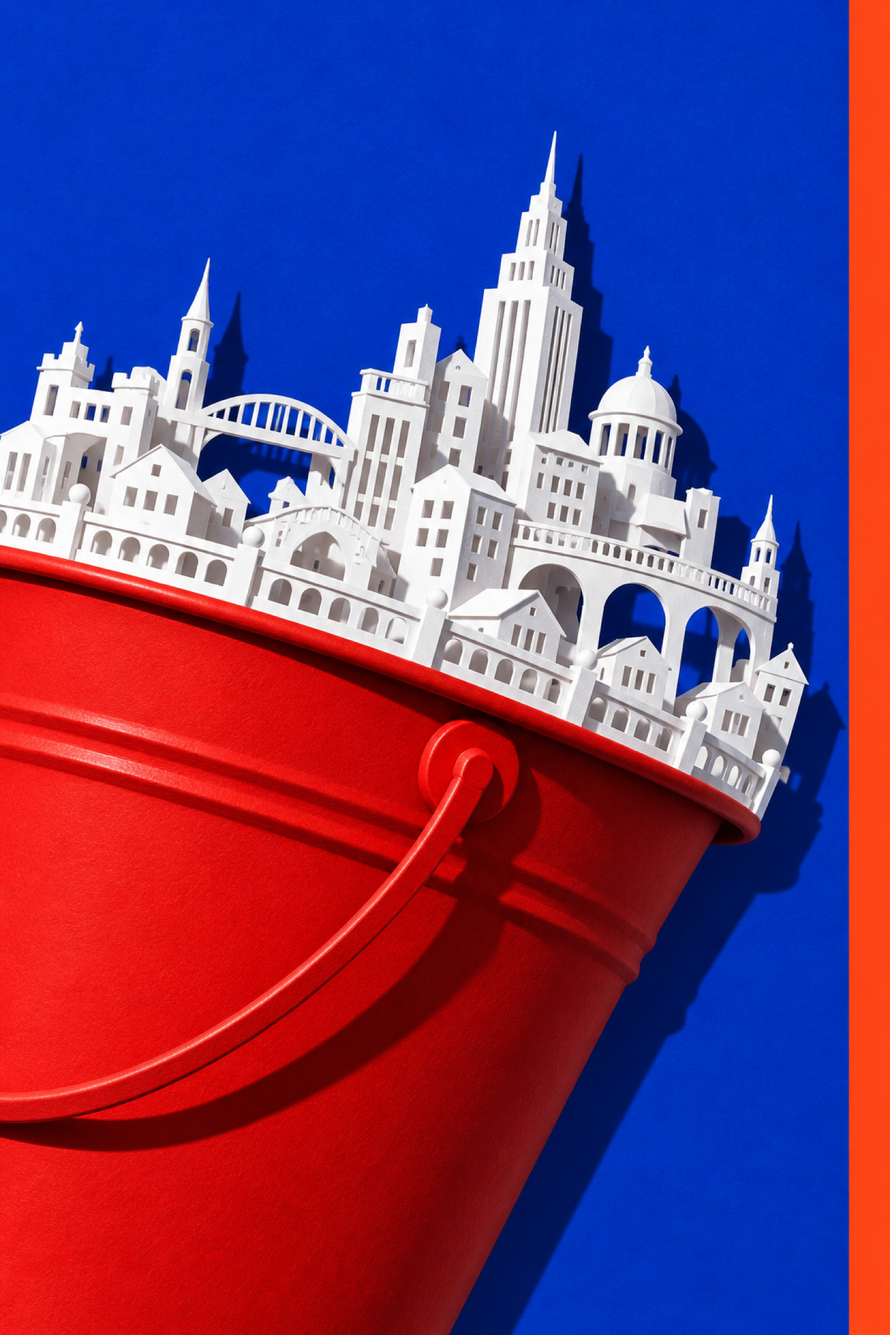
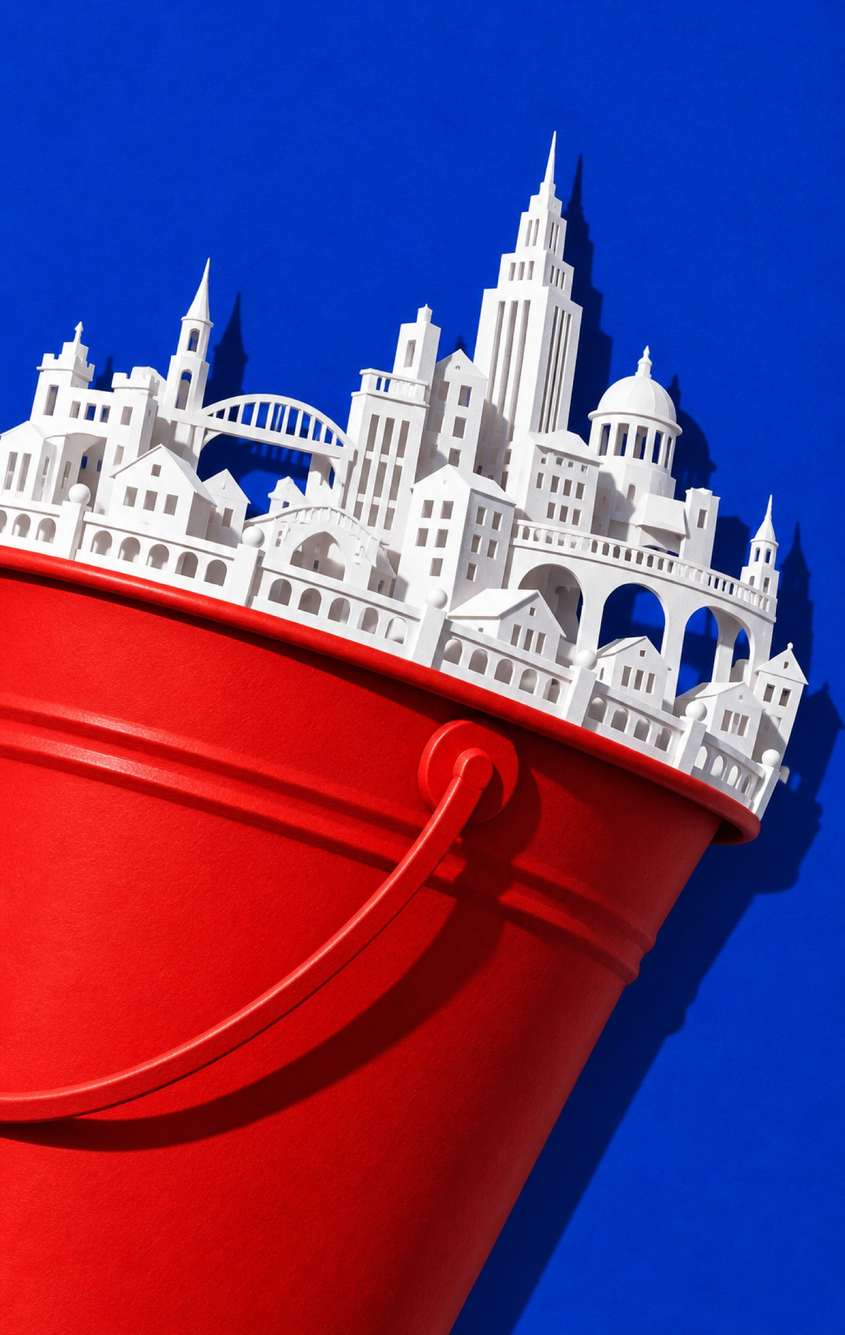
cover art: refuse a flat strip along any edge
The cover brief told the image model about the layout's spine band, so
021's cover came back with an orange bar painted down its right edge.
The brief now asks for full-bleed art with no border, band, or stripe and
names only the space to keep clear. mag art rejects a cover candidate
with a flat edge strip (pixel check) and render refuses such cover art.
021's pick is cropped to drop its strip.

Changed region(s): [[0.0, 0.0, 1.0, 1.0], [0.5833, 0.7444, 0.614, 0.7755]]

diff --git a/mag/src/cover/art.rs b/mag/src/cover/art.rs
@@ -68,6 +68,61 @@ pub fn art_zones(path: &Path, band_x: f64, page_height: f64) -> Result<(Zone, Zo
     ))
 }
 
+const SIDES: [&str; 4] = ["left", "right", "top", "bottom"];
+
+fn edge_line(image: &Rgb, side: usize, depth: u32) -> Vec<[i32; 3]> {
+    let (width, height) = (image.width, image.height);
+    let points: Vec<(u32, u32)> = match side {
+        0 => (0..height).map(|y| (depth, y)).collect(),
+        1 => (0..height).map(|y| (width - 1 - depth, y)).collect(),
+        2 => (0..width).map(|x| (x, depth)).collect(),
+        _ => (0..width).map(|x| (x, height - 1 - depth)).collect(),
+    };
+    points
+        .into_iter()
+        .map(|(x, y)| {
+            let at = (y as usize * width as usize + x as usize) * 3;
+            [0, 1, 2].map(|c| i32::from(image.data[at + c]))
+        })
+        .collect()
+}
+
+fn share(line: &[[i32; 3]], colour: [i32; 3], test: impl Fn(i32) -> bool) -> f64 {
+    let hits = line
+        .iter()
+        .filter(|p| test((0..3).map(|c| (p[c] - colour[c]).abs()).max().unwrap_or(0)))
+        .count();
+    hits as f64 / line.len().max(1) as f64
+}
+
+pub fn edge_band(image: &Rgb) -> Option<String> {
+    SIDES.iter().enumerate().find_map(|(side, name)| {
+        let span = if side < 2 { image.width } else { image.height };
+        let edge = edge_line(image, side, 0);
+        let count = i32::try_from(edge.len().max(1)).unwrap_or(i32::MAX);
+        let colour = [0, 1, 2].map(|c| edge.iter().map(|p| p[c]).sum::<i32>() / count);
+        let flat = (0..span / 4)
+            .take_while(|&depth| share(&edge_line(image, side, depth), colour, |d| d <= 28) >= 0.95)
+            .count();
+        let flat = u32::try_from(flat).unwrap_or(u32::MAX);
+        let inside = || edge_line(image, side, flat + 4);
+        (flat >= (span / 100).max(8)
+            && flat < span / 4
+            && share(&inside(), colour, |d| d > 60) >= 0.8)
+            .then(|| format!("a flat {flat}px strip along its {name} edge"))
+    })
+}
+
+pub fn refuse_edge_band(path: &Path) -> Result<()> {
+    match edge_band(&decode_rgb(path)?) {
+        Some(band) => anyhow::bail!(
+            "{} has {band}: generated art must not paint layout elements; crop it off or pick another candidate",
+            path.display()
+        ),
+        None => Ok(()),
+    }
+}
+
 pub fn luminance(rgb: [f64; 3]) -> f64 {
     let linear = |c: f64| match c <= 0.04045 {
         true => c / 12.92,
@@ -139,4 +194,41 @@ pub fn graded_art(path: &Path) -> Result<Vec<u8>> {
         ExtendedColorType::Rgb8,
     )?;
     Ok(jpeg)
+}
+
+#[cfg(test)]
+mod tests {
+    use super::*;
+
+    fn field(paint: impl Fn(u32, u32) -> [u8; 3]) -> Rgb {
+        let (width, height) = (300, 450);
+        let paint = &paint;
+        let data = (0..height)
+            .flat_map(|y| (0..width).flat_map(move |x| paint(x, y)))
+            .collect();
+        Rgb {
+            width,
+            height,
+            data,
+        }
+    }
+
+    #[test]
+    fn edge_band_finds_a_painted_strip_and_spares_a_flat_ground() {
+        let blue = [20, 40, 200];
+        let striped = field(|x, _| if x >= 285 { [250, 80, 40] } else { blue });
+        assert_eq!(
+            edge_band(&striped).as_deref(),
+            Some("a flat 15px strip along its right edge")
+        );
+        assert_eq!(edge_band(&field(|_, _| blue)), None);
+        let subject = field(|x, y| {
+            if x >= 285 && y > 300 {
+                [220, 30, 30]
+            } else {
+                blue
+            }
+        });
+        assert_eq!(edge_band(&subject), None);
+    }
 }

diff --git a/mag/src/art.rs b/mag/src/art.rs
@@ -710,12 +710,12 @@ fn generate_all(
     round_dir: &Path,
     workers: usize,
 ) -> Result<Vec<GeneratedItem>> {
-    let jobs: Vec<(String, u32, String, String, GenEnv)> = briefs
+    let jobs: Vec<(String, ArtPurpose, u32, String, String, GenEnv)> = briefs
         .iter()
         .flat_map(|b| (1..=variants(b, candidates)).map(move |v| (b, v)))
         .map(|(b, v)| {
             let (file, cmd, env) = candidate_command(gen_cmd, b, v, round_dir)?;
-            Ok((b.id.clone(), v, file, cmd, env))
+            Ok((b.id.clone(), b.purpose, v, file, cmd, env))
         })
         .collect::<Result<_>>()?;
     let next = AtomicUsize::new(0);
@@ -730,7 +730,7 @@ fn generate_all(
         for _ in 0..workers.max(1).min(jobs.len()) {
             s.spawn(|| loop {
                 let i = next.fetch_add(1, Ordering::Relaxed);
-                let Some((brief, variant, file, cmd, env)) = jobs.get(i) else {
+                let Some((brief, purpose, variant, file, cmd, env)) = jobs.get(i) else {
                     break;
                 };
                 let out_path = round_dir.join(file);
@@ -749,6 +749,18 @@ fn generate_all(
                             e
                         }
                     }
+                };
+                let outcome = match outcome.as_str() {
+                    "ok" | "kept" if *purpose == ArtPurpose::Cover => {
+                        match crate::cover::art::refuse_edge_band(&out_path) {
+                            Ok(()) => outcome,
+                            Err(e) => {
+                                eprintln!("    {brief} v{variant}: REJECTED: {e:#}");
+                                format!("{e:#}")
+                            }
+                        }
+                    }
+                    _ => outcome,
                 };
                 let ok = matches!(outcome.as_str(), "ok" | "kept");
                 let line = serde_json::json!({

diff --git a/mag/src/typeset/cover.rs b/mag/src/typeset/cover.rs
@@ -1,4 +1,4 @@
-use crate::cover::art::{art_zones, extreme_pixels, graded_art, luminance};
+use crate::cover::art::{art_zones, extreme_pixels, graded_art, luminance, refuse_edge_band};
 use crate::cover::text::{cover_contributors, cover_date, cover_issue};
 use crate::model::manifest::Edition;
 use crate::typeset::content::{string_literal, File, Tree};
@@ -202,6 +202,7 @@ fn front(design: &Value, edition: &Edition, work: &Path) -> Result<Value> {
     let (art, scrim) = match (edition.cover_art.as_deref(), layout.as_str()) {
         (Some(art), layout) => {
             ensure!(art.is_file(), "Cover art is missing: {}", art.display());
+            refuse_edge_band(art)?;
             std::fs::create_dir_all(work)?;
             let graded = work.join("cover-art.jpg");
             std::fs::write(&graded, graded_art(art)?)?;

diff --git a/prompts/cover-art-candidates.md b/prompts/cover-art-candidates.md
@@ -59,10 +59,11 @@ checklists or meta-commentary. No two prompts share an opening phrase.
 
 ## Hard constraints (every brief, restated in its prompt)
 
-- Portrait 2:3 artwork, 1440 x 2160. Full-bleed under a small wordmark
-  in the top-left corner, a red-orange spine band on the right edge, and
-  one line of type in the bottom strip: nothing critical top-left or
-  along the bottom.
+- Portrait 2:3 artwork, 1440 x 2160, full-bleed: the scene runs to all
+  four edges with no border, frame, margin, stripe, or band of flat color
+  along any edge. Keep the top-left corner, the left edge, and the bottom
+  strip free of anything critical. Name only that clear space in the
+  prompt, never the layout elements that will cover it.
 - The dominant field is a saturated color or a light tone, never black,
   near-black, or a muddy dark ground: uncoated stock prints them as mud.
 - No text, letters, numerals, logos, pseudo-writing, or watermark in the
